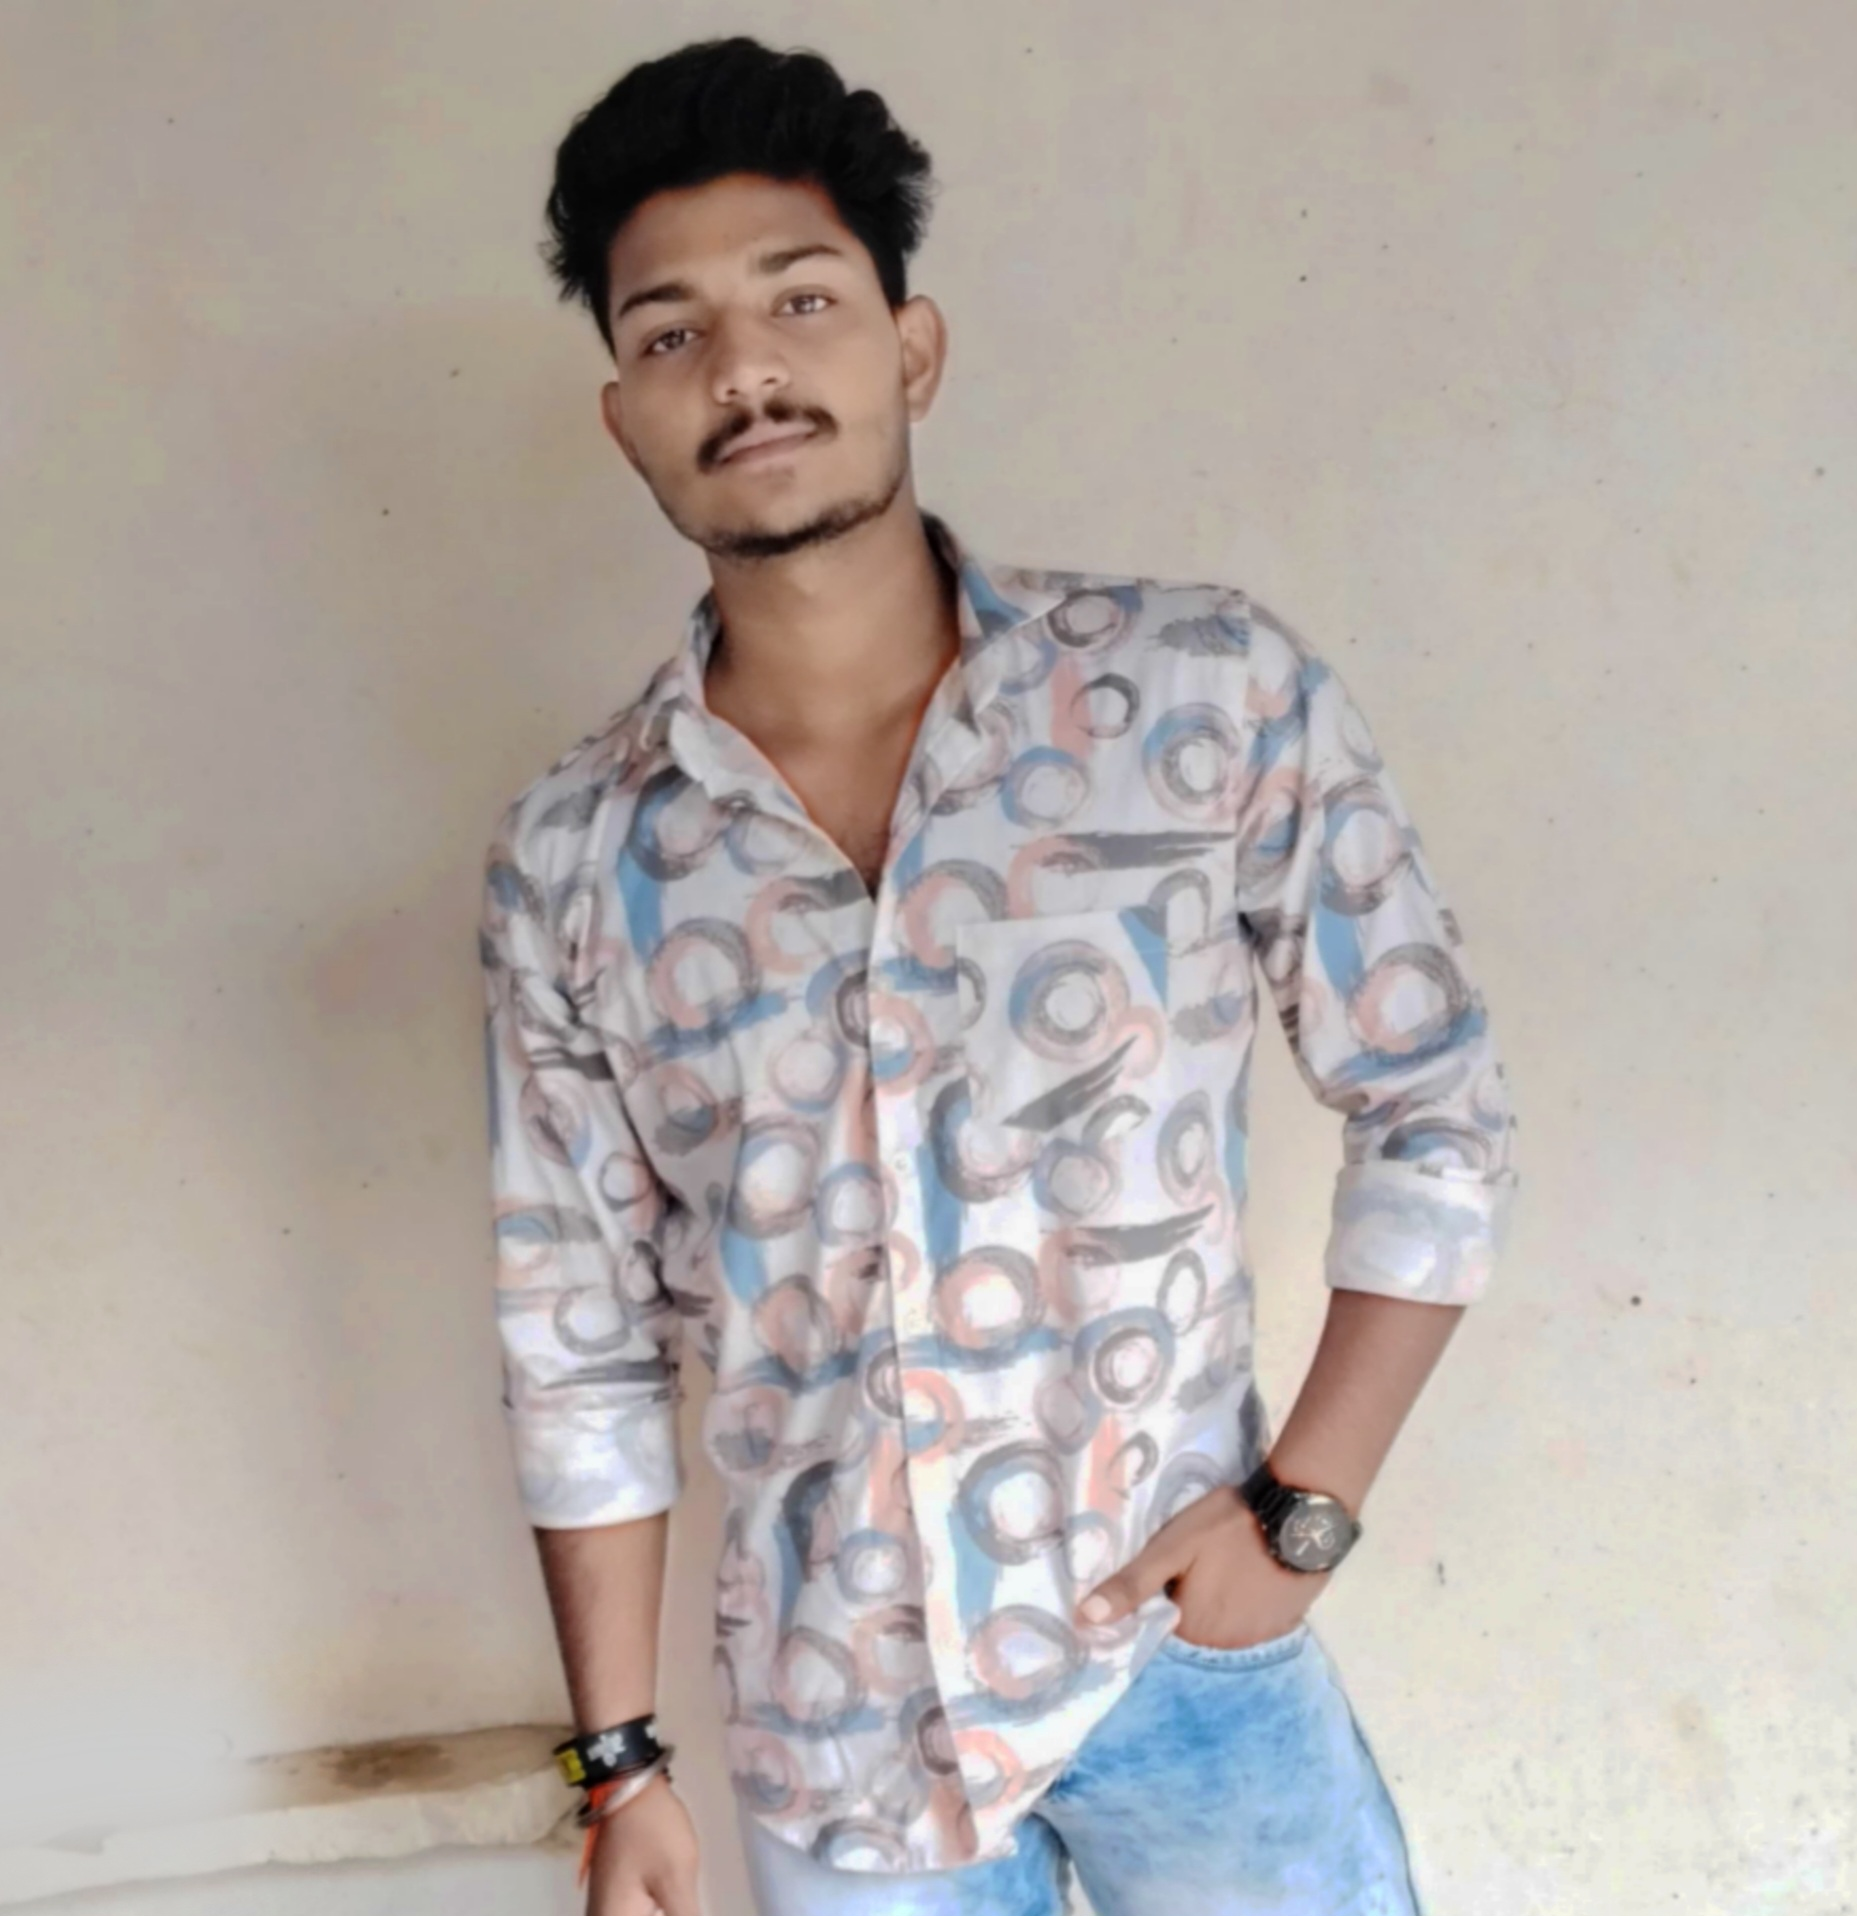
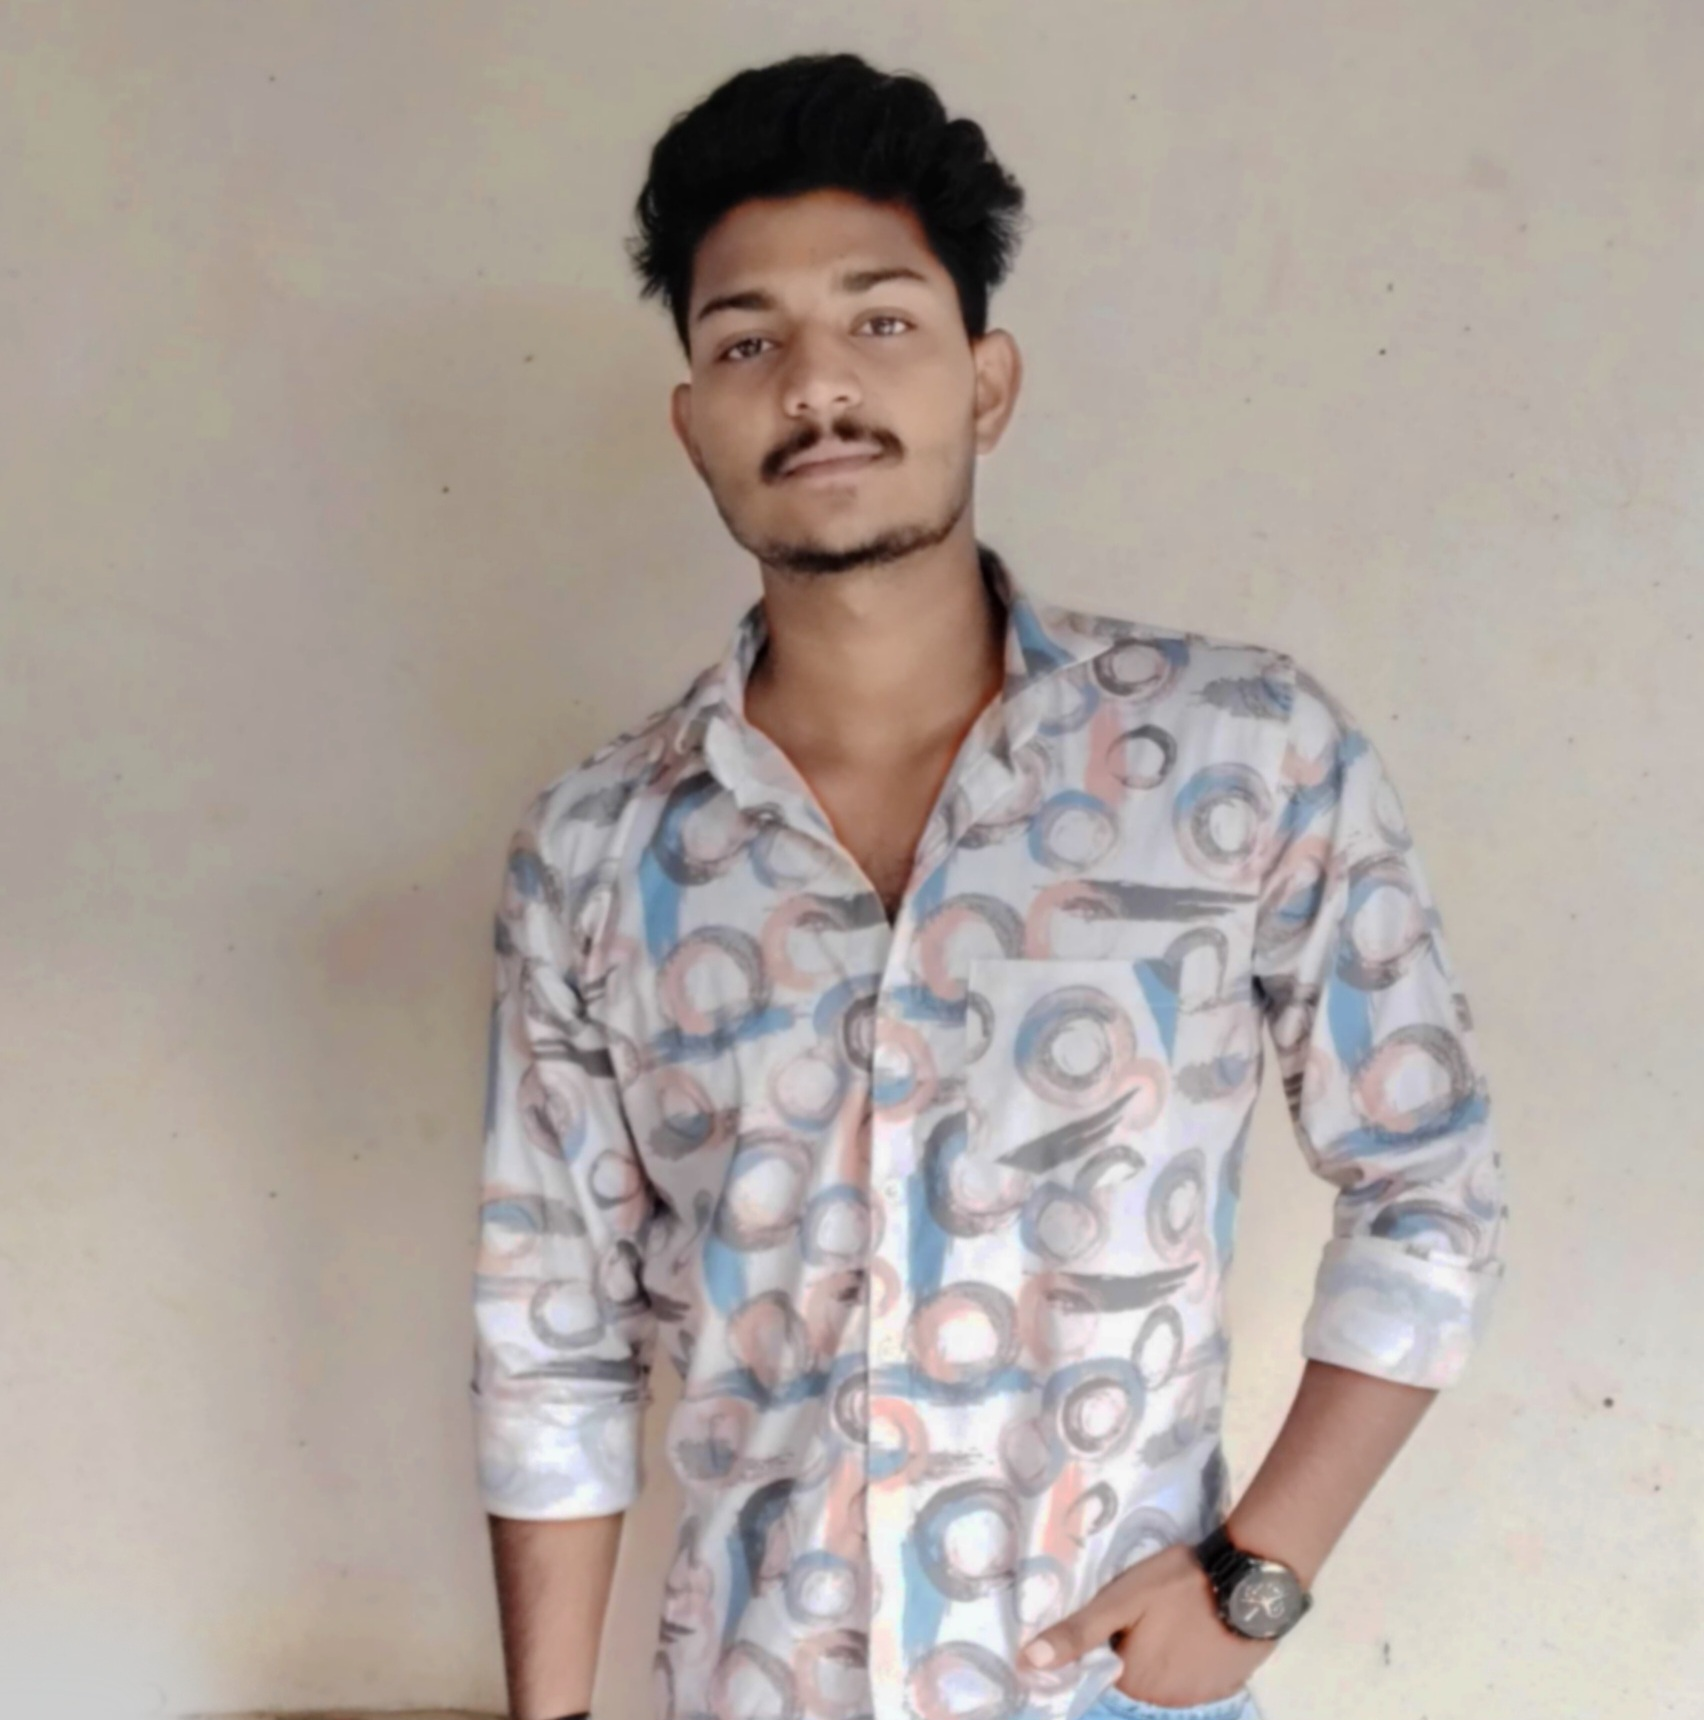
change pic

diff --git a/index.html b/index.html
@@ -18,7 +18,7 @@
     <div id="image_open_sec">
         <div id="crose">×</div>
         <div class="profile_image all_flex">
-            <img src="assets/Profile.png" alt="">
+            <img src="assets/Profile.JPG" alt="">
         </div>
         <h2>Hi, I am Gaurav Kumar</h2>
         <p>I’m a frontend developer passionate about creating clean, responsive, and user-friendly web applications. I
@@ -71,7 +71,7 @@
                     <img src="svg/bell.svg" alt="">
                 </div>
                 <div class="login all_flex" id="profile_img">
-                    <img src="assets/Profile.png" alt="">
+                    <img src="assets/Profile.jpg" alt="" style="border-radius: 50%;">
                     <div class="click_me">
                         <p id="arrow">↑</p>
                         <em>Click me!</em>
@@ -133,7 +133,7 @@
                     <div class="main_content">
                         <div class="singer">
                             <div class="img">
-                                <img src="assets/ab6761610000f178bc7e4fffd515b47ff1ebbc1f.jpg">
+                                <img src="assets/Profile.JPG">
                             </div>
                             <div class="texxt">
                                 <p>Music by</p>
